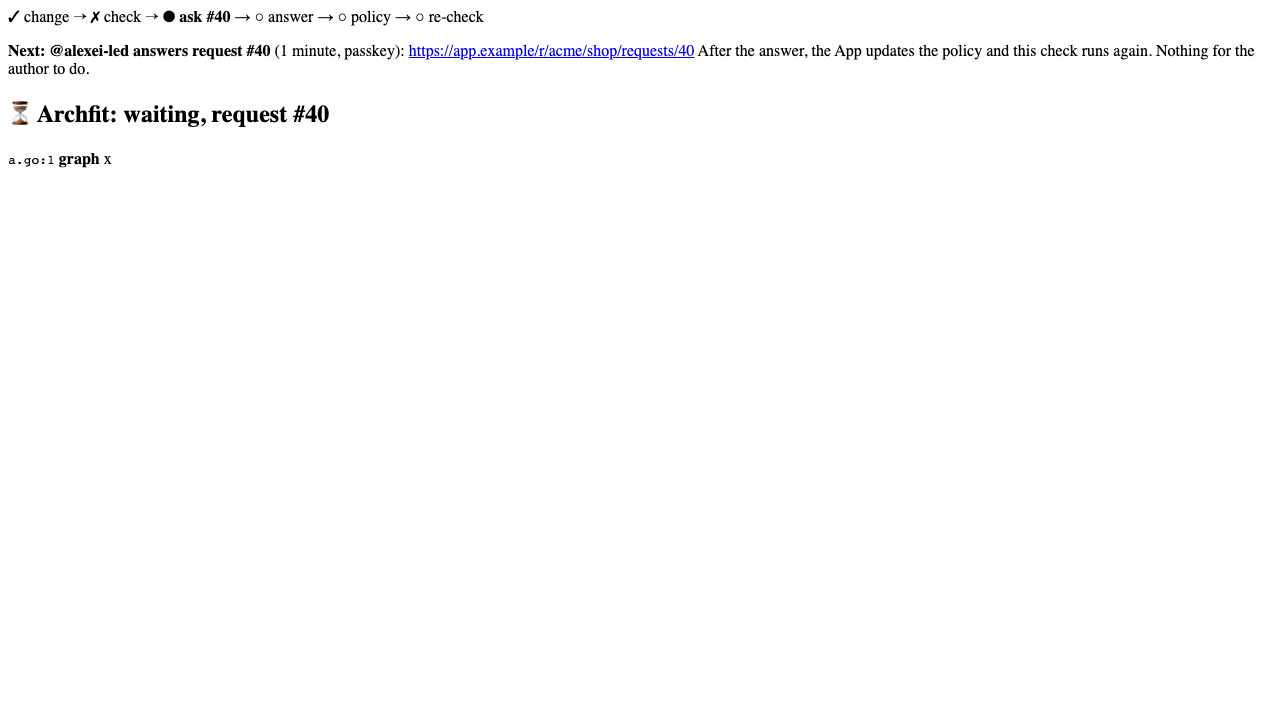
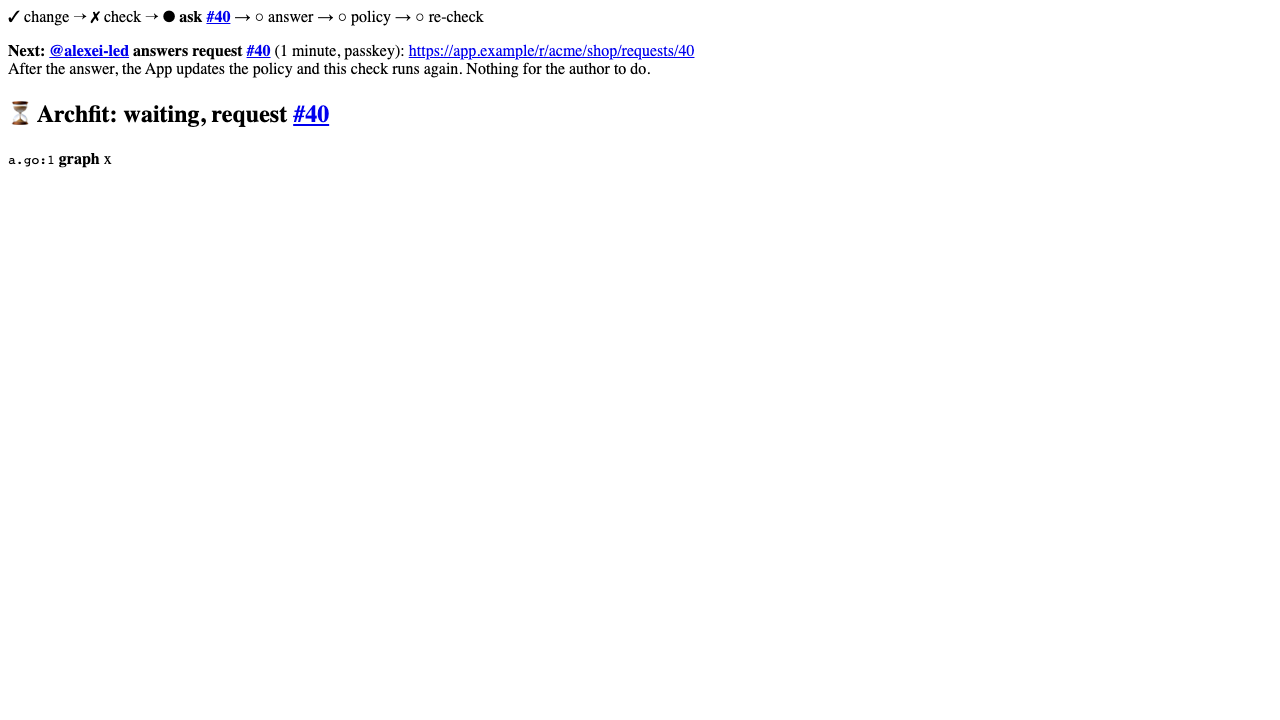
fix(feedback): preserve secondary requests and mute producer mentions

diff --git a/internal/gate/feedback/story_test.go b/internal/gate/feedback/story_test.go
@@ -230,11 +230,35 @@ func TestCommentOtherStoryRows(t *testing.T) {
 }
 
 func TestCommentHeaderMentionsAtMostOnePerson(t *testing.T) {
-	v := newView(result.Result{Status: result.StatusWaiting, Errors: []result.Error{{Next: result.Next{Kind: nextWait, Text: "wait for an owner: #40"}}}})
+	r := result.Result{Status: result.StatusWaiting, Summary: "waiting for @oscar", Errors: []result.Error{{
+		What: "Ask @oscar", Why: "Ask @acme/team, &#64;oscar, &#x040;oscar or &commat;oscar", Next: result.Next{Kind: nextWait, Text: "wait for an owner: #40"},
+	}}}
+	v := newView(r)
 	s := storyOf(v, &StoryFacts{State: records.StateOpen, Owner: "alexei-led"})
 	v.story = &s
-	if body := v.comment(maxBody); strings.Count(body, "@") > 1 {
-		t.Errorf("too many mentions: %s", body)
+	body := v.comment(maxBody)
+	if strings.Count(body, "@alexei-led") != 1 || strings.Contains(body, "@oscar") || strings.Contains(body, "@acme/team") {
+		t.Errorf("unexpected mentions: %s", body)
+	}
+	if !strings.Contains(body, "Ask @\u200boscar") || !strings.Contains(body, "&#64;\u200boscar") ||
+		!strings.Contains(body, "&#x040;\u200boscar") || !strings.Contains(body, "&commat;\u200boscar") {
+		t.Errorf("producer prose was not preserved: %s", body)
+	}
+}
+
+func TestCommentKeepsTheOtherRequestsActionable(t *testing.T) {
+	r := result.Result{Status: result.StatusWaiting, Errors: []result.Error{
+		{Rule: "first", Next: result.Next{Kind: nextWait, Text: "wait for an owner: #40"}},
+		{Rule: "second", Next: result.Next{Kind: nextWait, Text: "wait for an owner: #41"}},
+	}}
+	v := newView(r)
+	s := storyOf(v, &StoryFacts{State: records.StateOpen, Owner: "alexei-led"})
+	v.story = &s
+	body := v.comment(maxBody)
+	if !strings.Contains(body, "**second**\n- next: wait for an owner: #41") ||
+		strings.Contains(body, "- next: wait for an owner: #40") || strings.Count(body, "**Next:") != 1 ||
+		strings.Count(body, "@alexei-led") != 1 {
+		t.Errorf("comment does not distinguish primary and secondary requests: %s", body)
 	}
 }
 

diff --git a/internal/gate/feedback/view.go b/internal/gate/feedback/view.go
@@ -248,7 +248,8 @@ func (v view) annotations() []api.Annotation {
 func (v view) comment(budget int) string {
 	p := v.page()
 	header := v.storyHeader()
-	if strings.Contains(header, "**Next:") {
+	headerCoversNext := strings.Contains(header, "**Next:")
+	if headerCoversNext {
 		p.Author, p.Owner = "", ""
 	}
 	head := "## " + v.mark() + " " + p.StatusLine + "\n"
@@ -273,10 +274,28 @@ func (v view) comment(budget int) string {
 	}
 	var blocks []string
 	for _, r := range p.Records {
+		if headerCoversNext && r.Request > 0 && r.Request != v.story.Request {
+			r.ShowNext = true
+		}
 		blocks = append(blocks, "\n"+r.markdown())
+	}
+	if v.story != nil {
+		// Only the story header can actively mention an account. Keep the text
+		// readable but break the GitHub mention before budgeting the comment.
+		head = neutralizeMentions(head)
+		for i, block := range blocks {
+			blocks[i] = neutralizeMentions(block)
+		}
 	}
 	kept := fit(blocks, budget-len(header)-len(head)-tail.Len()-len(closing), func(n int) string { return "\n" + moreLine(n) + "\n" })
 	return header + head + strings.Join(kept, "") + tail.String() + closing
+}
+
+// GitHub expands Markdown entities before it looks for mentions.
+var mentionAt = regexp.MustCompile(`(?i)@|&(?:commat|#0*64|#x0*40);`)
+
+func neutralizeMentions(text string) string {
+	return mentionAt.ReplaceAllString(text, "$0\u200b")
 }
 
 // heading is the status line with "Archfit" as the first word of a heading.
